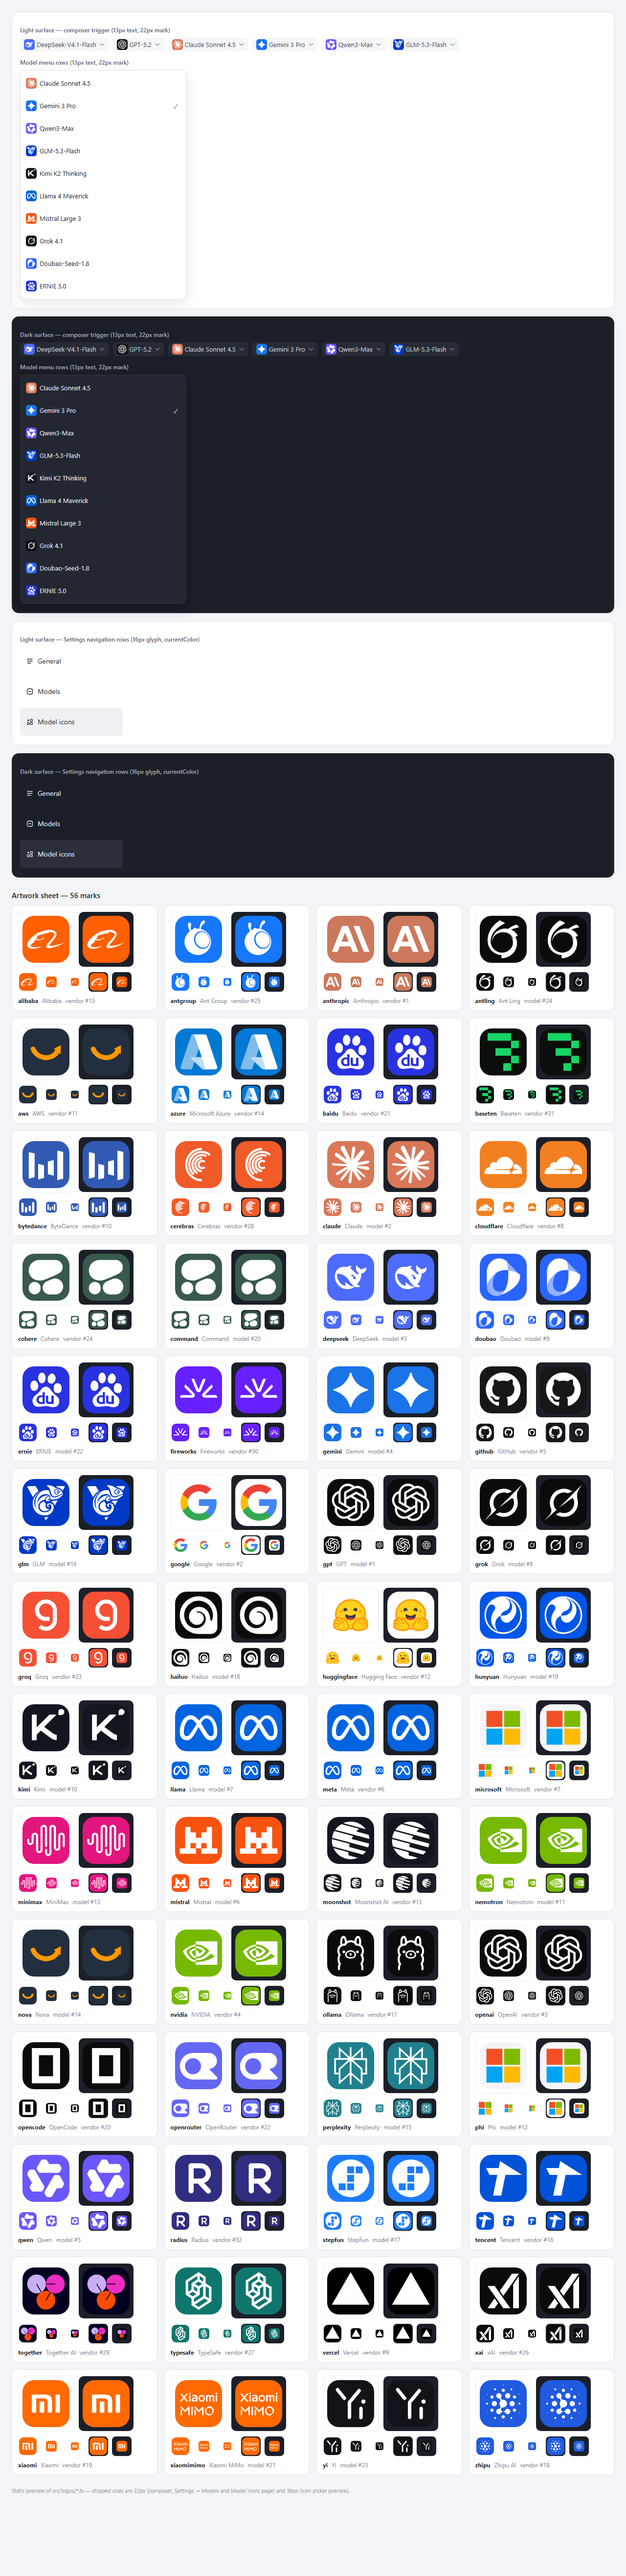
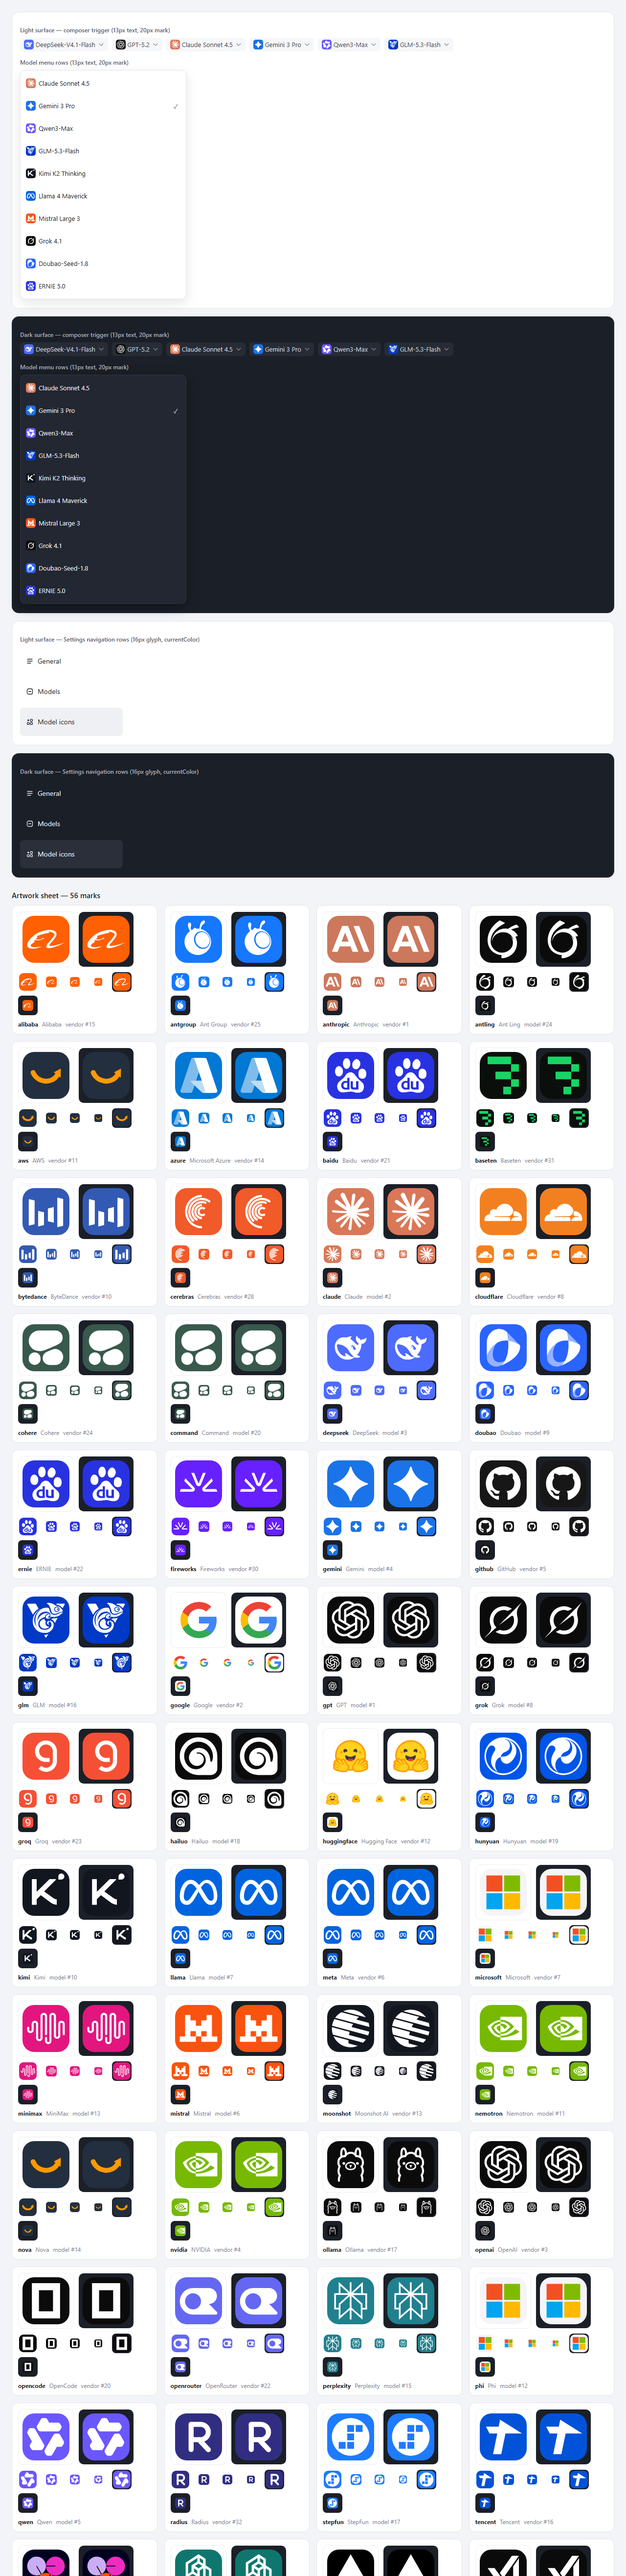
fix: size the composer mark to its line and make model rows flex
The composer mark was a 22px box with a paint-only 2px nudge inside a 13px/20px label. A 20px mark equals the line box, so flex centring puts its centre on the name's line and in the 28px trigger's hit area without a paint offset; Settings marks keep the 22px base and the picker preview stays 36px.

The host ships the model row as a four-track grid. Replace the plugin's extra-auto-track override with display:flex on the tagged row, so the leading 22px icon seat no longer takes a grid track from the model ID and display name inputs and the delete action stays on one line.

The bundle test and the DOM gate now pin the 20px composer box, the flex row and the absence of the paint nudge; the Settings screenshot and artwork preview were regenerated with the 20px composer mark.

Verified: pnpm run verify (typecheck, lint 0 errors, fmt:check, 73/73 tests, logo:check, rank:check, build + artifact check); pnpm run verify:dom (55/55 assertions); pnpm preview regenerated docs/preview.png and docs/preview-settings.png.

diff --git a/test/client.test.ts b/test/client.test.ts
@@ -517,7 +517,7 @@ describe('generated client bundle', () => {
     expect(sectionLabel().trim() !== '', 'the section nav label must not be empty').toBeTruthy();
   });
 
-  it('sizes the marks on the shared 22px base and the picker preview at 36px', () => {
+  it('sizes the composer mark at 20px, the Settings marks on the 22px base and the picker preview at 36px', () => {
     const { doc } = loadClient();
     const style = expectPresent(doc.styleTags[0], 'the plugin stylesheet must be mounted');
     /** Whether one rule declares both the width and the height. */
@@ -525,9 +525,10 @@ describe('generated client bundle', () => {
       const block = cssRule(style, selector);
       return new RegExp('width:\\s*' + px + 'px').test(block) && new RegExp('height:\\s*' + px + 'px').test(block);
     };
-    // The composer label, the Settings → Models marks and the Model icons page
-    // share one 22px base, so a mark never renders at a different scale.
-    expect(sized('.dshml-mark', 22), 'composer trigger/menu mark').toBe(true);
+    // The composer mark fits the 13px/20px label line exactly. The Settings → Models
+    // marks and the Model icons page share one 22px base, and the picker preview is
+    // the single enlarged surface at 36px.
+    expect(sized('.dshml-mark', 20), 'composer trigger/menu mark').toBe(true);
     expect(sized('.dshml-vendor', 22), 'Settings vendor mark').toBe(true);
     expect(sized('.dshml-model-icon-btn', 22), 'Settings model-row icon seat').toBe(true);
     expect(sized('.dshml-model-icon-btn .dshml-model-mark', 22), 'Settings model-row mark').toBe(true);
@@ -537,24 +538,21 @@ describe('generated client bundle', () => {
     expect(sized('.dshml-picker-option-mark', 36), 'picker option mark').toBe(true);
   });
 
-  it('optically centres the composer mark on the label line', () => {
-    // The composer label is a 13px/20px line. Its glyphs sit about 2px below the
-    // centre of the 22px mark box, and the row's baseline alignment used to leave
-    // the mark high in the 28px trigger hit area and high against the model name.
-    // One 2px paint-only nudge covers the optical difference. The mark keeps its
-    // 22px layout box, so the host's row heights, clipping boxes and hit areas do
-    // not move. Settings marks and the picker preview are already centred by their
-    // own grid/flex rows and must not take the nudge.
+  it('centres the composer mark on the label line without a paint offset', () => {
+    // The composer label is a 13px/20px line. The 20px mark box fits that line
+    // exactly, so flex centring puts the mark's centre on the name's line and in
+    // the 28px trigger's hit area without the old 2px paint nudge. Settings marks
+    // and the picker preview are centred by their own grid/flex rows.
     const { doc } = loadClient();
     const style = expectPresent(doc.styleTags[0], 'the plugin stylesheet must be mounted');
     const root = cssRule(style, '.dshml-root');
-    expect(root, 'the row centres the 22px mark box and the name').toMatch(/align-items:\s*center/);
+    expect(root, 'the label row is a flex container').toMatch(/display:\s*flex/);
+    expect(root, 'the row centres the 20px mark box and the name').toMatch(/align-items:\s*center/);
     expect(root, 'the label keeps the host line baseline').toMatch(/vertical-align:\s*baseline/);
     const mark = cssRule(style, '.dshml-mark');
-    expect(mark, 'the optical nudge must not change the 22px layout box').toMatch(/position:\s*relative/);
-    expect(mark, 'a 13px line needs a 2px optical nudge').toMatch(/top:\s*2px/);
-    expect(mark, 'the composer mark stays on the shared 22px base').toMatch(/width:\s*22px/);
-    expect(mark).toMatch(/height:\s*22px/);
+    expect(mark, 'the mark fits the label line box').toMatch(/width:\s*20px/);
+    expect(mark).toMatch(/height:\s*20px/);
+    expect(mark, 'the composer mark needs no optical nudge').not.toMatch(/top:\s*2px/);
     for (const seat of [
       '.dshml-vendor',
       '.dshml-model-icon-btn',

diff --git a/scripts/preview-logos.ts b/scripts/preview-logos.ts
@@ -2,8 +2,8 @@
  * Render the logo set into a static HTML page and capture it with headless Edge.
  *
  * This is a design-iteration aid, not part of the shipped plugin: it imports the
- * artwork modules directly and screenshots them at shipped sizes (22px on the
- * conversation and Settings surfaces, 36px in the picker preview) plus larger
+ * artwork modules directly and screenshots them at shipped sizes (20px in the
+ * composer label, 22px on Settings surfaces, 36px in the picker preview) plus larger
  * reference sizes, on light and dark surfaces, next to a mock of the composer
  * trigger and model menu (`--only-set vendors` swaps those for a mock of the
  * Settings → Models provider rows, where vendor marks actually appear).
@@ -132,26 +132,26 @@ const mark = (key: string, size: number): string => {
 
 const composerMock = (theme: 'light' | 'dark'): string => `
 <section class="mock mock-${theme}">
-  <h3>${theme === 'light' ? 'Light surface' : 'Dark surface'} — composer trigger (13px text, 22px mark)</h3>
+  <h3>${theme === 'light' ? 'Light surface' : 'Dark surface'} — composer trigger (13px text, 20px mark)</h3>
   <div class="trigger-row">
     ${SAMPLES.slice(0, 6)
       .map(
         ([key, name]) => `
       <span class="trigger">
-        ${mark(key, 22)}
+        ${mark(key, 20)}
         <span class="trigger-label">${escape(name)}</span>
         <svg class="chevron" viewBox="0 0 16 16" aria-hidden="true"><path d="M4 6l4 4 4-4" fill="none" stroke="currentColor" stroke-width="1.4" stroke-linecap="round" stroke-linejoin="round"/></svg>
       </span>`,
       )
       .join('')}
   </div>
-  <h3>Model menu rows (13px text, 22px mark)</h3>
+  <h3>Model menu rows (13px text, 20px mark)</h3>
   <div class="menu">
     ${SAMPLES.slice(2, 12)
       .map(
         ([key, name], index) => `
       <div class="option">
-        <span class="option-copy">${mark(key, 22)}<span class="option-name">${escape(name)}</span></span>
+        <span class="option-copy">${mark(key, 20)}<span class="option-name">${escape(name)}</span></span>
         <span class="check">${index === 1 ? '✓' : ''}</span>
       </div>`,
       )
@@ -229,7 +229,7 @@ const artworkCard = (key: string): string => {
       <span class="on-dark">${mark(key, 96)}</span>
     </div>
     <div class="small">
-      ${[36, 22, 16].map((size) => `<span class="on-light">${mark(key, size)}</span>`).join('')}
+      ${[36, 22, 20, 16].map((size) => `<span class="on-light">${mark(key, size)}</span>`).join('')}
       ${[36, 22].map((size) => `<span class="on-dark">${mark(key, size)}</span>`).join('')}
     </div>
     <figcaption><b>${escape(key)}</b><span>${escape(entry ? entry.title : 'MISSING')}</span><span>${escape(meta)}</span></figcaption>
@@ -307,7 +307,7 @@ const html = `<!doctype html>
   .missing { color: #d64545; font-weight: 700; }
 </style></head>
 <body>${body}
-<p style="font-size:11px;color:#8b93a1;margin-top:24px">Static preview of src/logos/*.ts — shipped sizes are 22px (composer, Settings → Models and Model icons page) and 36px (icon picker preview).</p>
+<p style="font-size:11px;color:#8b93a1;margin-top:24px">Static preview of src/logos/*.ts — shipped sizes are 20px (composer), 22px (Settings → Models and Model icons page) and 36px (icon picker preview).</p>
 </body></html>`;
 
 const suffix = only ? only : onlySet !== null ? `logos-${onlySet}` : 'logos';

diff --git a/scripts/verify-dom.ts b/scripts/verify-dom.ts
@@ -1320,15 +1320,15 @@ async function browserDriver(config: DriverConfig): Promise<void> {
       rowStates.length === config.modelRows && seatBoxes.every((value) => value === '22×22'),
       'seat boxes=' + JSON.stringify(seatBoxes),
     );
-    const gridTrackCounts = qa('.jrmgQW_modelEntry .jrmgQW_modelRow', root).map((row) => {
-      const value = getComputedStyle(row).gridTemplateColumns;
-      return value === 'none' ? 0 : value.trim().split(/\s+/).filter(Boolean).length;
+    const rowLayouts = qa('.jrmgQW_modelEntry .jrmgQW_modelRow', root).map((row) => {
+      const style = getComputedStyle(row);
+      return style.display + '/' + style.flexDirection + '/' + style.alignItems;
     });
     add(
-      'model row grid gains an extra auto column (5 tracks)',
+      'model row becomes a flex row so the icon seat leads without displacing the inputs',
       true,
-      modelRows.length === config.modelRows && gridTrackCounts.every((count) => count === 5),
-      'grid-template-columns track counts=' + JSON.stringify(gridTrackCounts),
+      modelRows.length === config.modelRows && rowLayouts.every((layout) => layout === 'flex/row/center'),
+      'row layouts=' + JSON.stringify(rowLayouts),
     );
 
     const selectHiddenOk = ((): boolean => {
@@ -1723,11 +1723,11 @@ async function browserDriver(config: DriverConfig): Promise<void> {
     // copied from `@deepseek-ai/dsh-client-ui-model-selection` (0.2.1-rc.5,
     // `lib/client.js`) — a 28px `display:flex; align-items:center` trigger with
     // 13px/20px type, and a block label (`overflow:hidden`) that keeps the host's
-    // clipping box — then mounts the real label contribution inside it. The plugin's
-    // 2px optical nudge must put the 22px mark's centre on the vertical centre of
-    // that 28px hit area (where the 13px name's glyphs sit) without pushing the mark
-    // outside the label's line box. The probe sits off screen, so the Settings
-    // fixture and its screenshot are untouched.
+    // clipping box — then mounts the real label contribution inside it. The 20px
+    // mark box fits the label's 20px line box, so flex centring must put its centre
+    // on the vertical centre of the 28px hit area without any paint offset. The
+    // probe sits off screen, so the Settings fixture and its screenshot are
+    // untouched.
     if (labelRegistration && window.React && window.ReactDOM) {
       const probeStyle = document.createElement('style');
       probeStyle.id = 'dshml-composer-probe-style';
@@ -1766,10 +1766,10 @@ async function browserDriver(config: DriverConfig): Promise<void> {
         add(
           'composer mark is centred in the 28px trigger hit area',
           true,
-          markBox !== null && triggerBox.height === 28 && Math.abs(centreOffset) <= 1.5 && markBox.height === 22,
+          markBox !== null && triggerBox.height === 28 && Math.abs(centreOffset) <= 1.5 && markBox.height === 20,
           markBox === null
             ? 'no mark rendered'
-            : 'mark 22px centre vs hit-area centre: ' +
+            : 'mark 20px centre vs hit-area centre: ' +
                 centreOffset.toFixed(2) +
                 'px (trigger ' +
                 triggerBox.height +

diff --git a/src/client.ts b/src/client.ts
@@ -36,17 +36,12 @@ import { DshmlModelIconsSection } from './section';
 const LABEL_STYLE_ID = 'dsh-model-logos/label.css';
 
 const LABEL_CSS = `
-/* Composer model label. The mark base size is 22px on every conversation and
-   Settings surface; only the icon picker preview enlarges it (36px). */
-.dshml-root { display: inline-flex; align-items: center; gap: 4px; min-width: 0; max-width: 100%; vertical-align: baseline; }
-/* Optical centring of the mark. The row centres the 22px mark box on the label
-   line, but a 13px UI line's glyphs sit about 2px below that box's centre (cap
-   height and descender are not symmetric around the content box), so the mark
-   read high in the 28px composer trigger and in the model menu. One shared 2px
-   nudge puts its centre on the name's optical line and in the vertical centre of
-   the trigger's hit area. The offset is paint-only: the mark stays a 22px layout
-   box, so the host's row heights, clipping and hit areas are untouched. */
-.dshml-mark { flex: none; width: 22px; height: 22px; display: inline-block; line-height: 0; position: relative; top: 2px; }
+/* Composer model label. The mark is 20px so its box fits the label's 13px/20px
+   line exactly and flex centring puts it on the name's line without a paint
+   offset; Settings marks stay on the 22px base, and only the icon picker preview
+   enlarges a mark (36px). */
+.dshml-root { display: flex; align-items: center; gap: 4px; min-width: 0; max-width: 100%; vertical-align: baseline; }
+.dshml-mark { flex: none; width: 20px; height: 20px; display: inline-block; line-height: 0; position: relative; }
 .dshml-mark > svg { display: block; width: 100%; height: 100%; }
 .dshml-text { min-width: 0; overflow: hidden; text-overflow: ellipsis; white-space: nowrap; }
 .dshml-menu { gap: 5px; }
@@ -63,7 +58,10 @@ const LABEL_CSS = `
 .dshml-model-icon-btn .dshml-model-mark { width: 22px; height: 22px; display: inline-flex; }
 .dshml-model-placeholder { opacity: .55; }
 .dshml-model-icon-disabled .dshml-model-mark { opacity: .35; }
-[data-dshml-model-row="1"] { grid-template-columns: auto minmax(0, 1.4fr) minmax(0, 1fr) auto auto !important; }
+/* The host ships the model row as a grid; the plugin replaces it with a flex
+   row so the 22px icon seat can lead the row without displacing the input
+   tracks, and the delete action stays on the same line. */
+[data-dshml-model-row="1"] { display: flex; flex-direction: row; align-items: center; }
 
 /* Settings → Models: custom provider combobox over the native select. */
 .dshml-combo { position: relative; width: 100%; max-width: 240px; }
